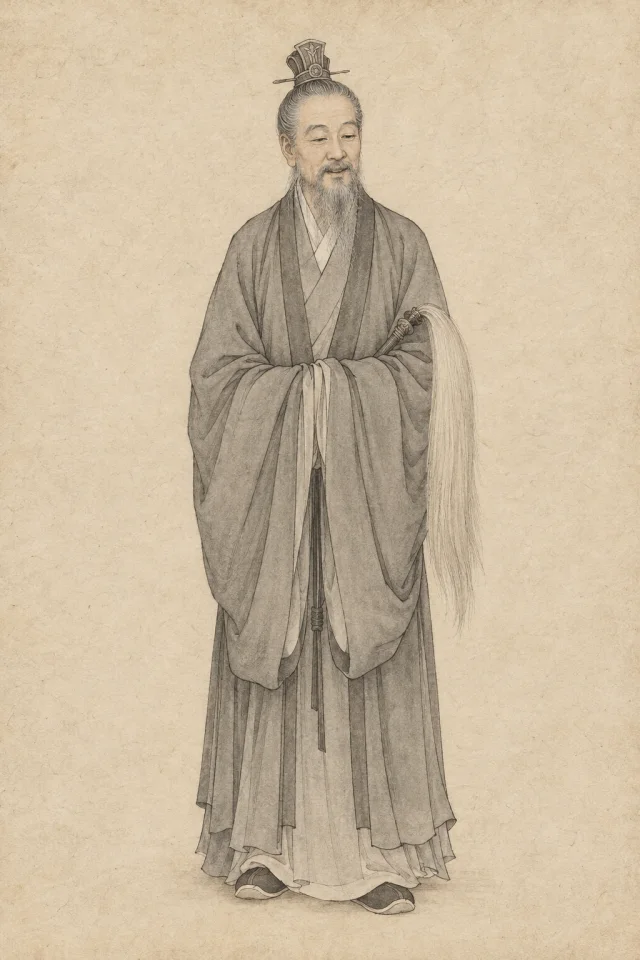
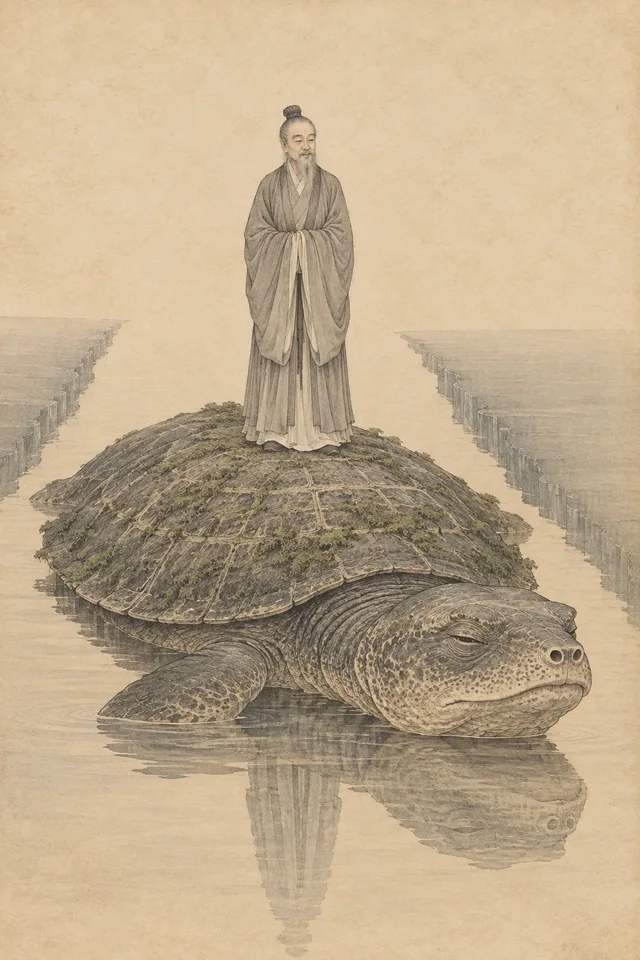
lingjing 人物志: 玄沉子 骑鼋

diff --git a/lingjing/worlds/jiuding/art/CREDITS.md b/lingjing/worlds/jiuding/art/CREDITS.md
@@ -171,3 +171,13 @@ the style reference only. All modern — a jersey with a plain 0, a team track j
 shaker, oversleeves and reading glasses on a chain, a whistle and stopwatch, a white lab coat. Rejected on the way:
 a first 周禾 who read fifteen and a first 老蔡 who was not plump. Every picture looked at (the face, the age, no
 ancient dress, no text or seal). No outside source.
+
+## 玄沉子 on the 鼋 — portrait repainted (2026-10-05)
+
+Hanli's note: 「观主是骑着鼋出场的，能画好吗」. `people/xuanchenzi.webp` (640×960, webp q84) was repainted with Codex CLI's
+image generation (gpt-5.5), 2026-10-05, from his first appearance in 03-第三回.md: the 泗水 stopped flat as a mirror and
+parted into a channel, the giant 鼋 (blue-black shell bigger than the ferry, moss-grown, its plates square by square like
+a field, a head bigger than a millstone, two squinting old eyes), and on its back the 观主 in a plain grey robe, both
+hands in his sleeves, a plain topknot (the old portrait's crown and whisk dropped — the text has neither). The old
+portrait was handed in to keep only the face. Two rolls, both looked at; kept the one with the flatter, mirror-still
+water (the other's parted water fell like a weir). The 2026-09-29 portrait is in git history. No outside source.
